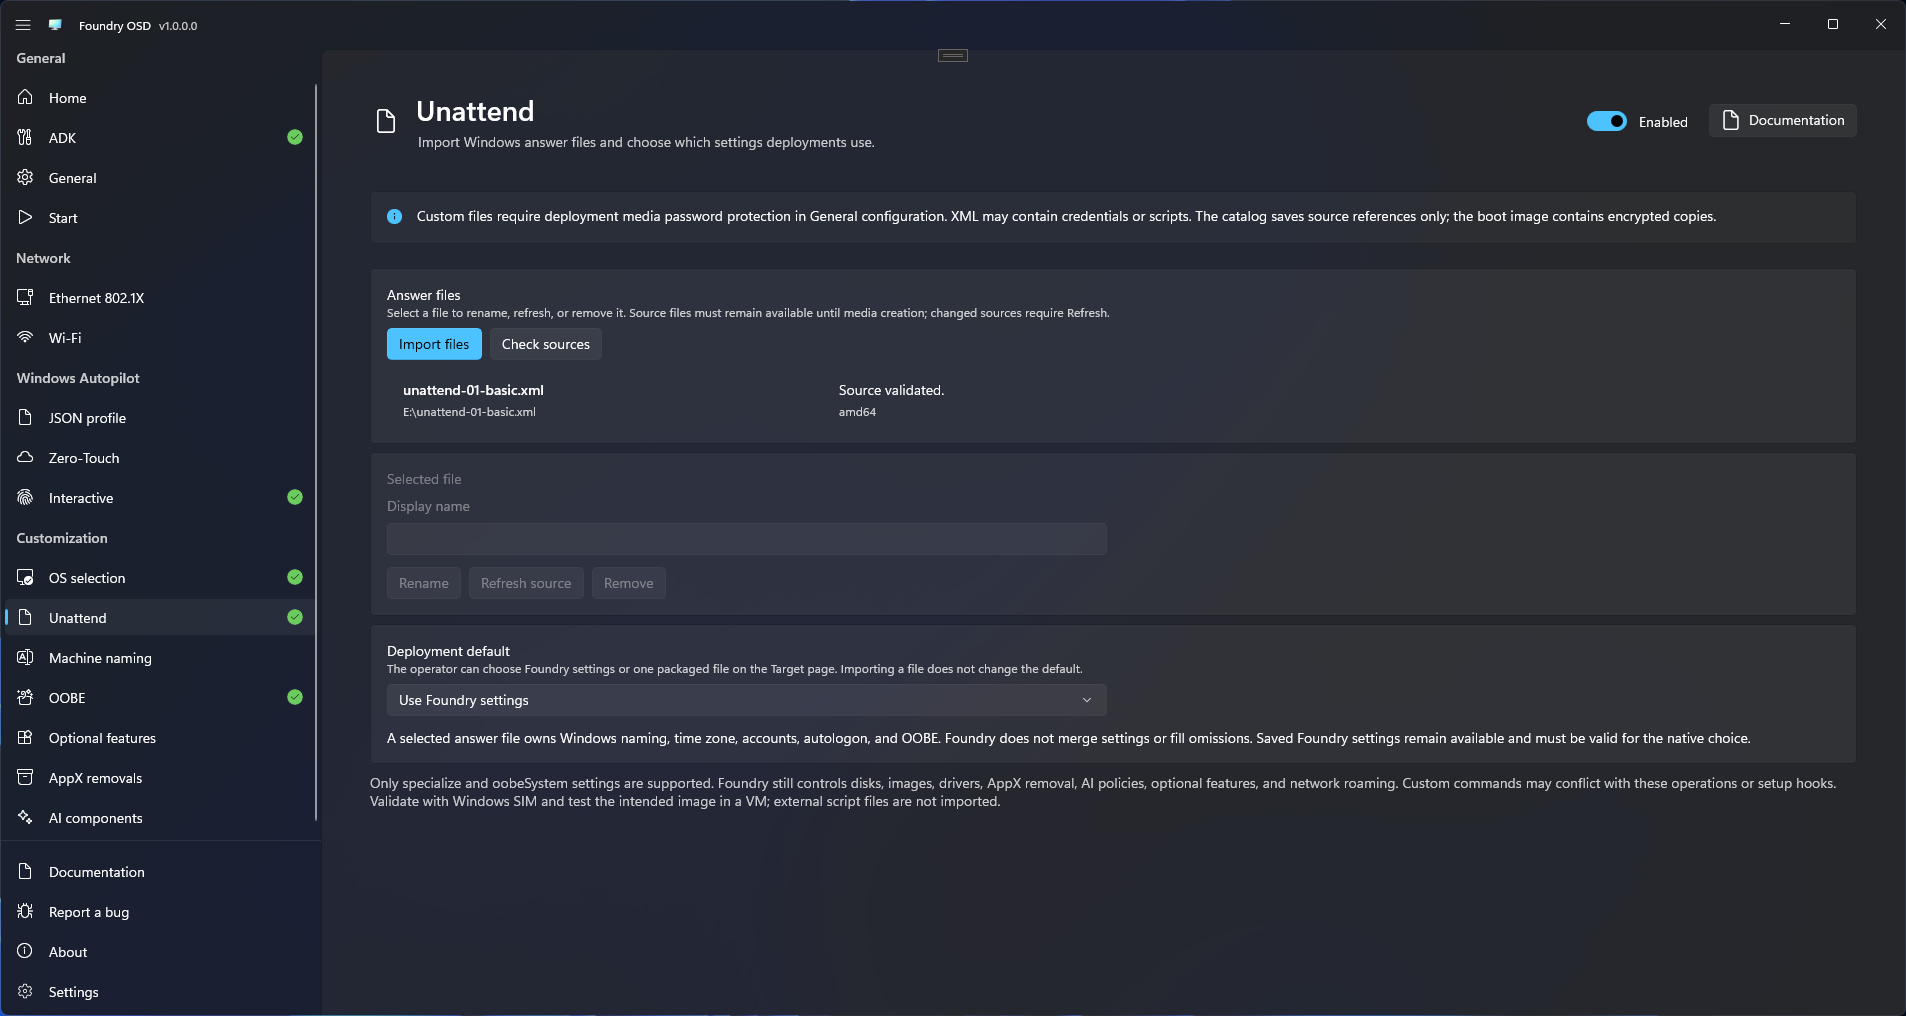
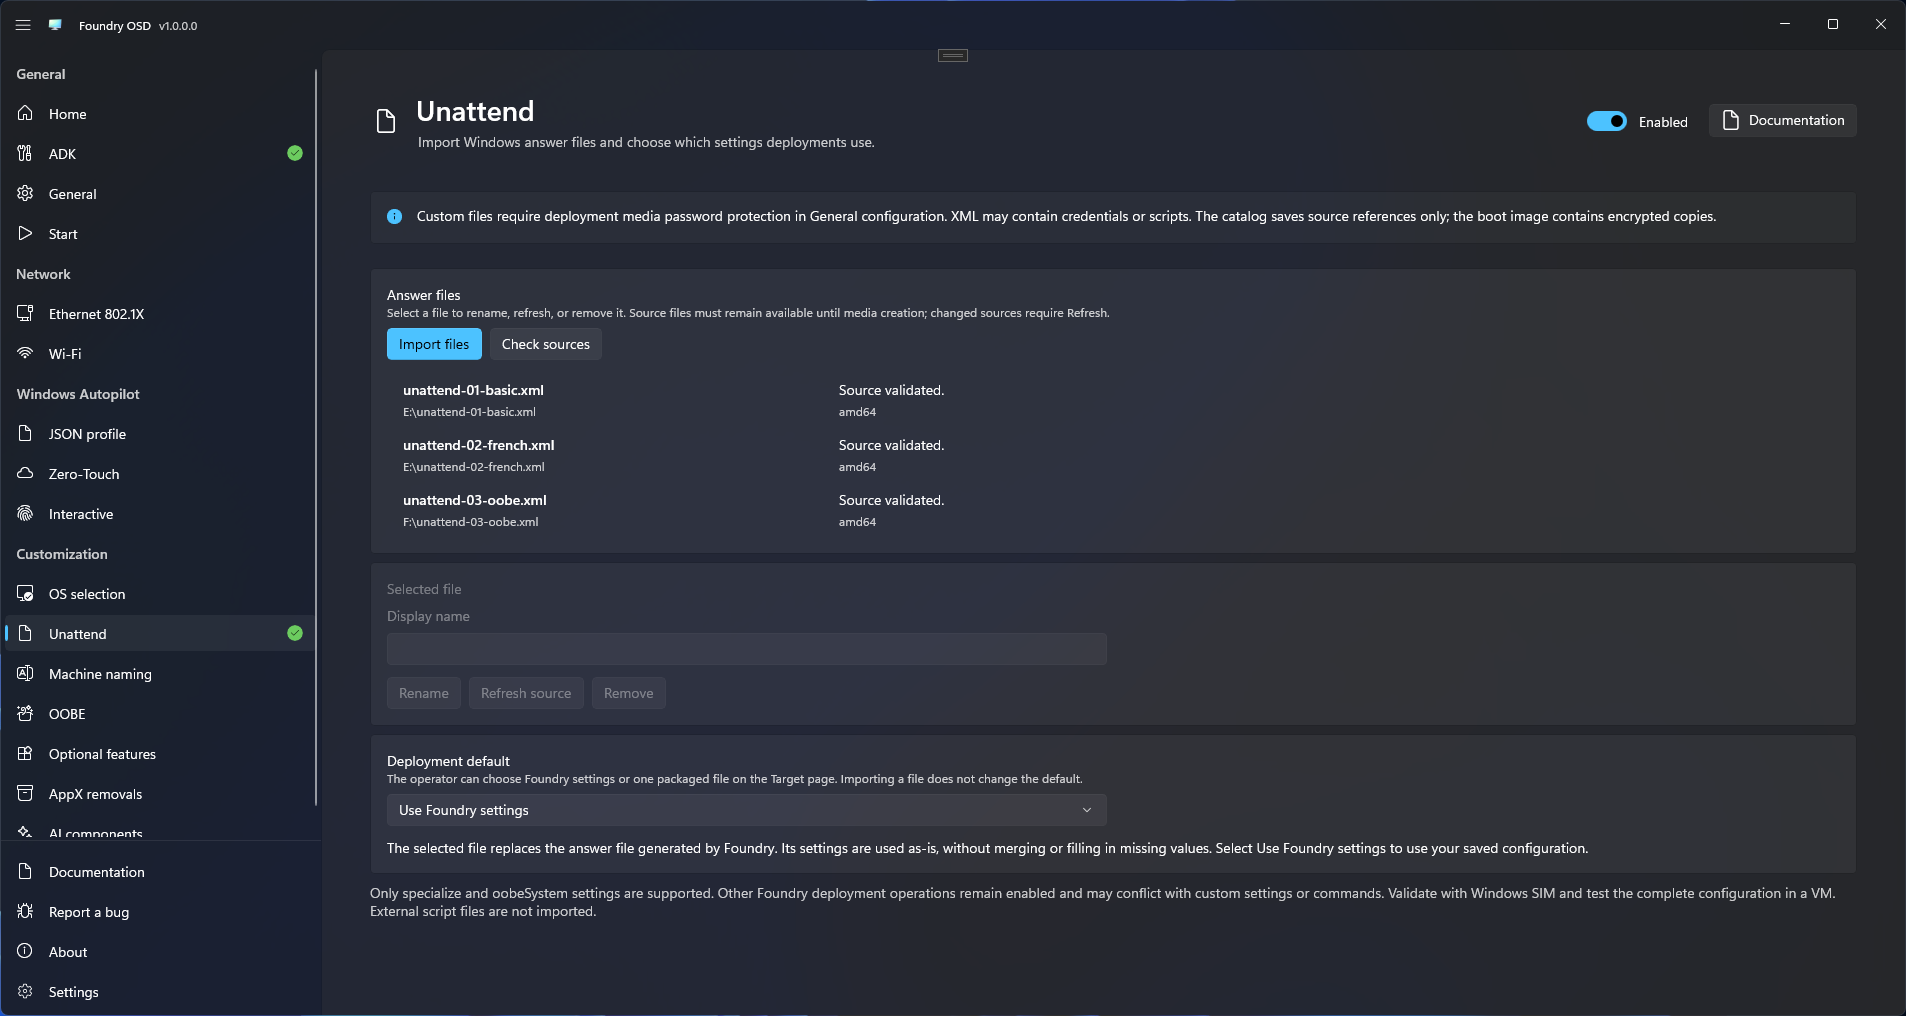
docs(unattend): refresh catalog screenshot

diff --git a/foundry-osd/customization/unattend.md b/foundry-osd/customization/unattend.md
@@ -21,8 +21,8 @@ Validate the answer file with Windows System Image Manager for the target Window
 5. Return to **Start**, resolve readiness errors, and [create deployment media](../media/README.md).
 
 <figure>
-  <img src="../../.gitbook/assets/foundry-osd-unattend-01-catalog.png" alt="Foundry OSD Unattend page enabled with one validated answer file, the Selected file section, and Use Foundry settings as the deployment default">
-  <figcaption>Unattend enabled with a validated answer file and Use Foundry settings as the deployment default. Select a file to enable its editing controls.</figcaption>
+  <img src="../../.gitbook/assets/foundry-osd-unattend-01-catalog.png" alt="Foundry OSD Unattend page enabled with three validated answer files, no selected file, and Use Foundry settings as the deployment default">
+  <figcaption>Unattend enabled with three validated answer files and Use Foundry settings as the deployment default. Select a file to enable its editing controls.</figcaption>
 </figure>
 
 Saved Foundry configurations contain source paths and content fingerprints, not the XML. Keep the original files accessible until media creation finishes. Built media contains encrypted copies and no longer needs those sources.
